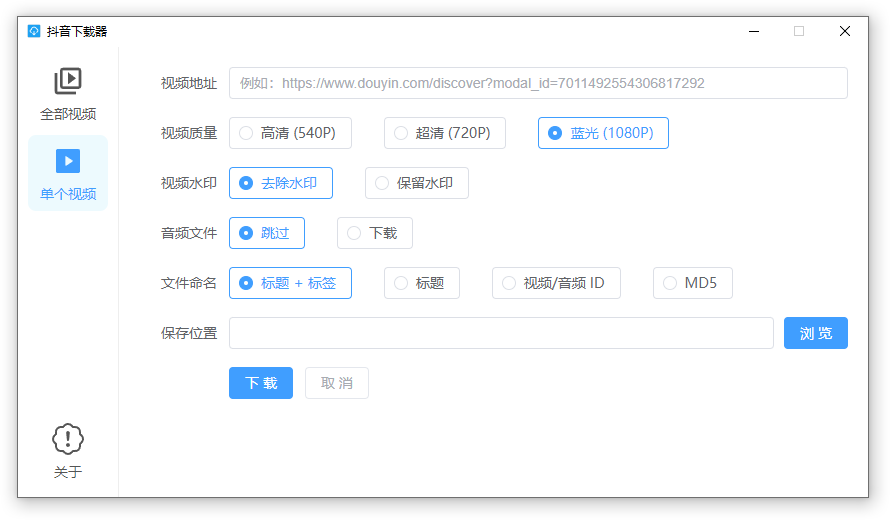
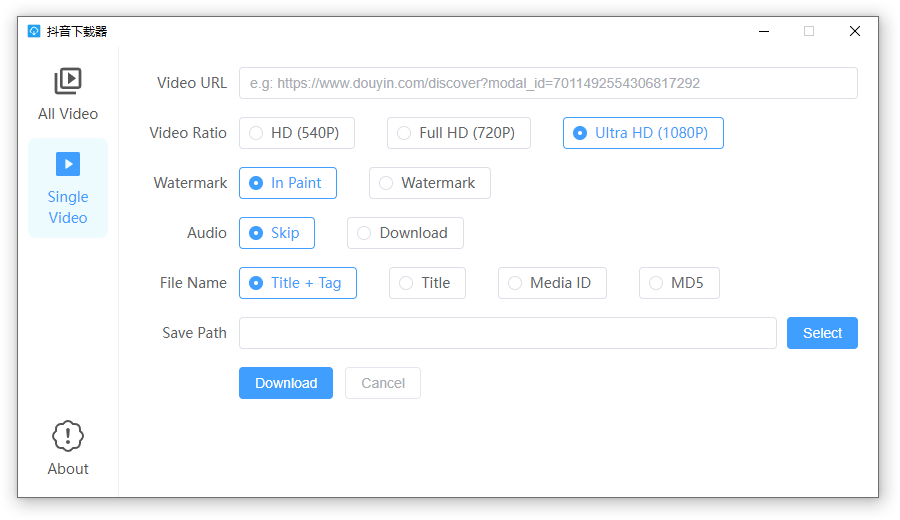
feat: i18n

diff --git a/src/components/single/index.vue b/src/components/single/index.vue
@@ -8,6 +8,9 @@ import { dialog, invoke } from '@tauri-apps/api'
 import { basename } from '@tauri-apps/api/path'
 import { ElButton, ElForm, ElFormItem, ElInput, ElMessage, ElRadioGroup, ElRadio, ElRadioButton } from 'element-plus'
 import { ref } from 'vue'
+import { useI18n } from 'vue-i18n'
+
+const { t } = useI18n()
 
 const form = ref({
   videoURL: '',
@@ -35,18 +38,18 @@ const onSubmit = async () => {
 
   const { videoURL, ratio, watermark, audio, fileNameType, savePath } = form.value
 
-  if (!videoURL) return ElMessage.error('请输入视频地址')
-  if (!savePath) return ElMessage.error('请选择保存位置')
+  if (!videoURL) return ElMessage.error(t('message.empty_video_url'))
+  if (!savePath) return ElMessage.error(t('message.empty_sava_path'))
 
   const { searchParams } = new URL(videoURL)
   const id = searchParams.get('modal_id')
-  if (!id) return ElMessage.error('请输入正确的视频地址')
+  if (!id) return ElMessage.error(t('message.error_video_url'))
 
   isDownloading.value = true
-  status.value = '下载中'
+  status.value = t('video.downloading')
 
   const data = await getVideo(id)
-  if (!data) return ElMessage.error('获取视频信息失败')
+  if (!data) return ElMessage.error(t('message.error_video_info'))
 
   const { desc, video } = data
   const { vid } = video
@@ -73,8 +76,8 @@ const onSubmit = async () => {
   }
 
   invoke('download', { url, folder: savePath, nameType: fileNameType, name, ext })
-    .then(() => (status.value = '下载成功'))
-    .catch(() => (status.value = '下载失败'))
+    .then(() => (status.value = t('video.download_success')))
+    .catch(() => (status.value = t('video.download_failure')))
     .finally(() => (isDownloading.value = false))
 }
 

diff --git a/src/components/multiple/index.vue b/src/components/multiple/index.vue
@@ -9,6 +9,9 @@ import { dialog, fs, invoke } from '@tauri-apps/api'
 import { basename, resolve } from '@tauri-apps/api/path'
 import { ElButton, ElForm, ElFormItem, ElInput, ElProgress, ElDivider, ElMessage, ElRadioGroup, ElRadio, ElRadioButton } from 'element-plus'
 import { computed, ref } from 'vue'
+import { useI18n } from 'vue-i18n'
+
+const { t } = useI18n()
 
 const form = ref({
   homeURL: '',
@@ -42,18 +45,18 @@ const onSubmit = async () => {
 
   const { homeURL, ratio, watermark, audio, folderNameType, fileNameType, savePath } = form.value
 
-  if (!homeURL) return ElMessage.error('请输入用户主页地址')
-  if (!savePath) return ElMessage.error('请选择保存位置')
+  if (!homeURL) return ElMessage.error(t('message.empty_home_url'))
+  if (!savePath) return ElMessage.error(t('message.empty_sava_path'))
 
   const sec_uid = homeURL.split('/').pop()
-  if (!sec_uid) return ElMessage.error('请输入正确的用户主页地址')
+  if (!sec_uid) return ElMessage.error(t('message.error_home_url'))
 
   isDownloading.value = true
 
   const folderPath = await createFolder(sec_uid, folderNameType, savePath)
   if (!folderPath) {
     isDownloading.value = false
-    ElMessage.error('文件夹创建失败，请重试')
+    ElMessage.error(t('message.error_create_folder'))
     return
   }
 

diff --git a/src/components/about/index.vue b/src/components/about/index.vue
@@ -24,7 +24,9 @@ const onGithubClick = () => shell.open('https://github.com/lzdyes/douyin-downloa
 const onCheckUpdateClick = async () => {
   isCheckLoading.value = true
   const shouldUpdate = await checkUpdate()
-  !shouldUpdate && ElMessage.success('已是最新版本')
+  !shouldUpdate && ElMessage.success(t('message.latest_version'))
   isCheckLoading.value = false
 }
+
+const onLanguageChange = (language: string) => localStorage.setItem('language', language)
 </script>

diff --git a/src/components/updater/index.vue b/src/components/updater/index.vue
@@ -4,9 +4,12 @@
 import { relaunch } from '@tauri-apps/api/process'
 import { installUpdate } from '@tauri-apps/api/updater'
 import { onMounted, ref } from 'vue'
+import { useI18n } from 'vue-i18n'
 import { ElButton, ElDialog } from 'element-plus'
 import { checkUpdate } from '@/utils'
 import store from '@/store'
+
+const { t } = useI18n()
 
 onMounted(() => checkUpdate())
 

diff --git a/src/i18n/index.ts b/src/i18n/index.ts
@@ -5,7 +5,7 @@ import en from './locales/en.yml'
 
 const i18n = createI18n({
   legacy: false,
-  locale: 'cn',
+  locale: localStorage.getItem('language') || 'cn',
   fallbackLocale: 'cn',
   messages: { cn, en },
 })
